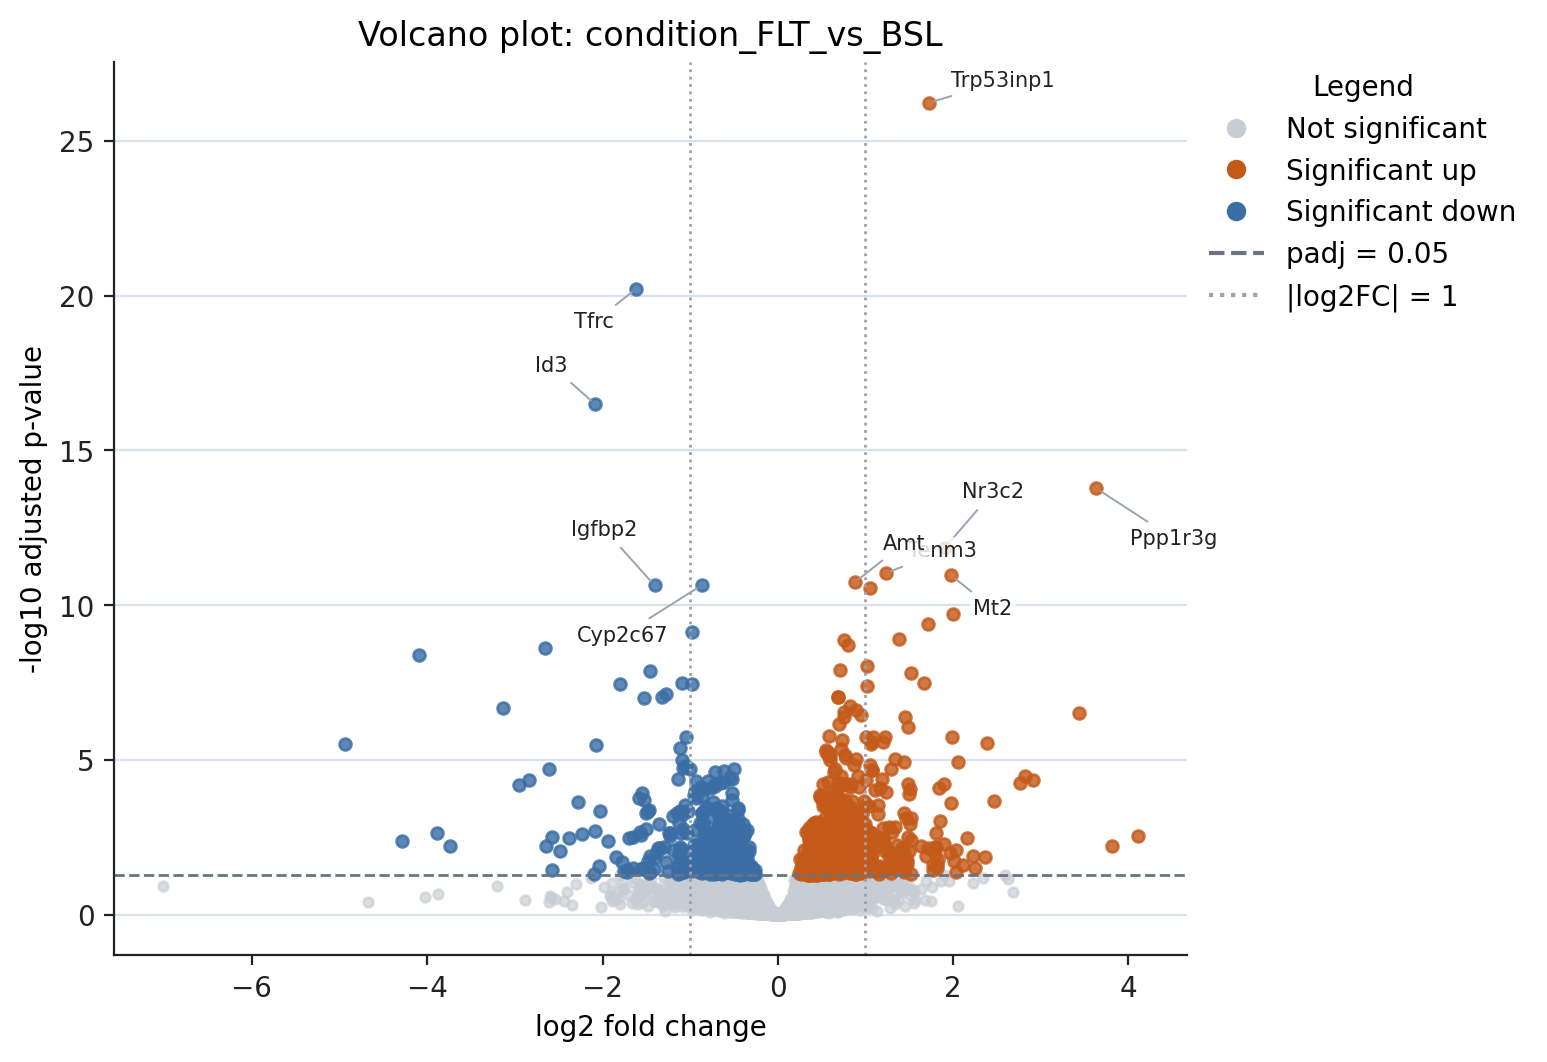
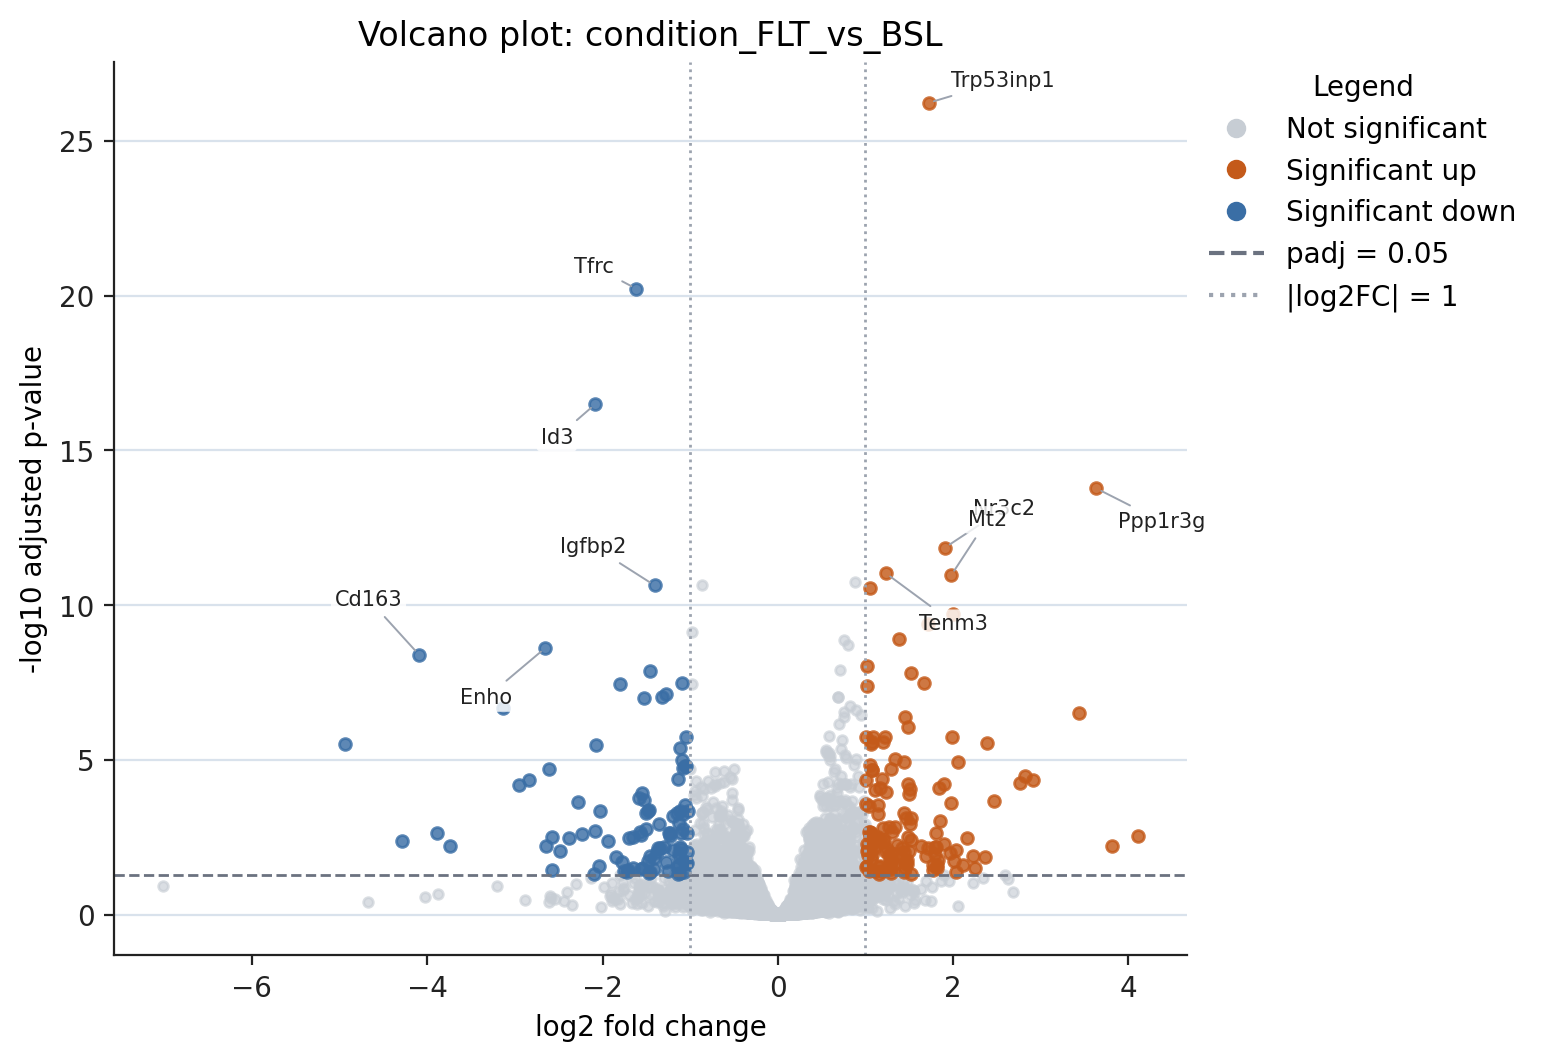
exclude all inside log fold change

diff --git a/workflow/scripts/qc_diff_exp_analysis.py b/workflow/scripts/qc_diff_exp_analysis.py
@@ -190,8 +190,8 @@ def load_gene_name_map(gtf_path: Path | None) -> dict[str, str]:
     return gene_names
 
 
-def select_volcano_labels(result: pd.DataFrame, alpha: float, labels_per_direction: int) -> pd.DataFrame:
-    candidates = result.loc[result["padj"].notna() & (result["padj"] < alpha)].copy()
+def select_volcano_labels(result: pd.DataFrame, alpha: float, lfc_threshold: float, labels_per_direction: int) -> pd.DataFrame:
+    candidates = result.loc[result["padj"].notna() & (result["padj"] < alpha) & (result["log2FoldChange"].abs() >= lfc_threshold)].copy()
     if candidates.empty:
         return candidates
 
@@ -439,16 +439,19 @@ def summarize_contrast(
 
     finite_padj = result["padj"].replace(0, np.nextafter(0, 1))
     neg_log10 = -np.log10(finite_padj)
-    label_candidates = select_volcano_labels(result, alpha, VOLCANO_LABELS_PER_DIRECTION)
+    label_candidates = select_volcano_labels(result, alpha, lfc_threshold, VOLCANO_LABELS_PER_DIRECTION)
     if not label_candidates.empty:
         label_candidates = label_candidates.copy()
         label_candidates["neg_log10_padj"] = -np.log10(label_candidates["padj"].replace(0, np.nextafter(0, 1)))
         label_candidates["plot_label"] = label_candidates["Geneid"].map(gene_name_map).fillna(label_candidates["Geneid"])
+    sig_outside_mask = result["padj"].notna() & (result["padj"] < alpha) & (result["log2FoldChange"].abs() >= lfc_threshold)
     fig, ax = plt.subplots(figsize=(8.2, 5.8))
-    nonsig_mask = ~(result["padj"].notna() & (result["padj"] < alpha))
+    nonsig_mask = ~sig_outside_mask
     ax.scatter(result.loc[nonsig_mask, "log2FoldChange"], neg_log10.loc[nonsig_mask], s=12, c=PLOT_NEUTRALS["nonsig"], alpha=0.65)
-    ax.scatter(up["log2FoldChange"], -np.log10(up["padj"].replace(0, np.nextafter(0, 1))), s=18, c=PLOT_NEUTRALS["sig_up"], alpha=0.82)
-    ax.scatter(down["log2FoldChange"], -np.log10(down["padj"].replace(0, np.nextafter(0, 1))), s=18, c=PLOT_NEUTRALS["sig_down"], alpha=0.82)
+    sig_outside_up = result.loc[sig_outside_mask & (result["log2FoldChange"] > 0)]
+    sig_outside_down = result.loc[sig_outside_mask & (result["log2FoldChange"] < 0)]
+    ax.scatter(sig_outside_up["log2FoldChange"], -np.log10(sig_outside_up["padj"].replace(0, np.nextafter(0, 1))), s=18, c=PLOT_NEUTRALS["sig_up"], alpha=0.82)
+    ax.scatter(sig_outside_down["log2FoldChange"], -np.log10(sig_outside_down["padj"].replace(0, np.nextafter(0, 1))), s=18, c=PLOT_NEUTRALS["sig_down"], alpha=0.82)
     ax.axhline(-np.log10(alpha), color=PLOT_NEUTRALS["threshold"], linestyle="--", linewidth=1)
     ax.axvline(lfc_threshold, color=PLOT_NEUTRALS["threshold_light"], linestyle=":", linewidth=1)
     ax.axvline(-lfc_threshold, color=PLOT_NEUTRALS["threshold_light"], linestyle=":", linewidth=1)
